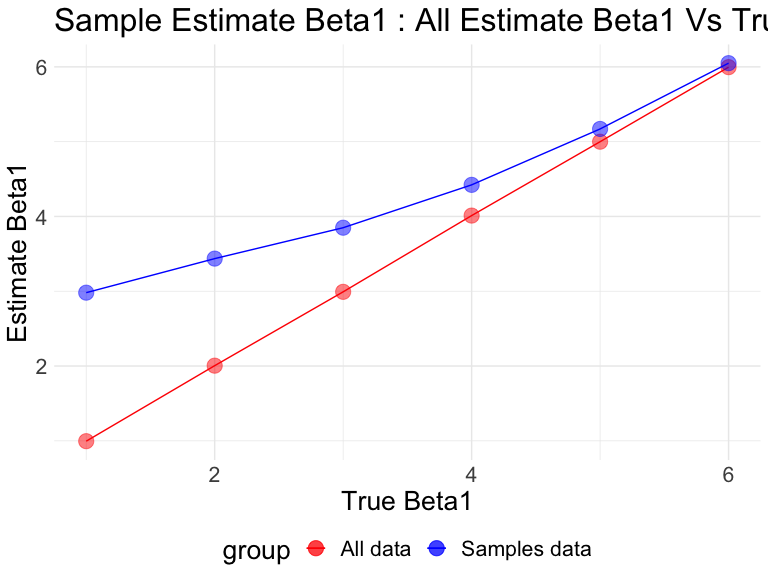
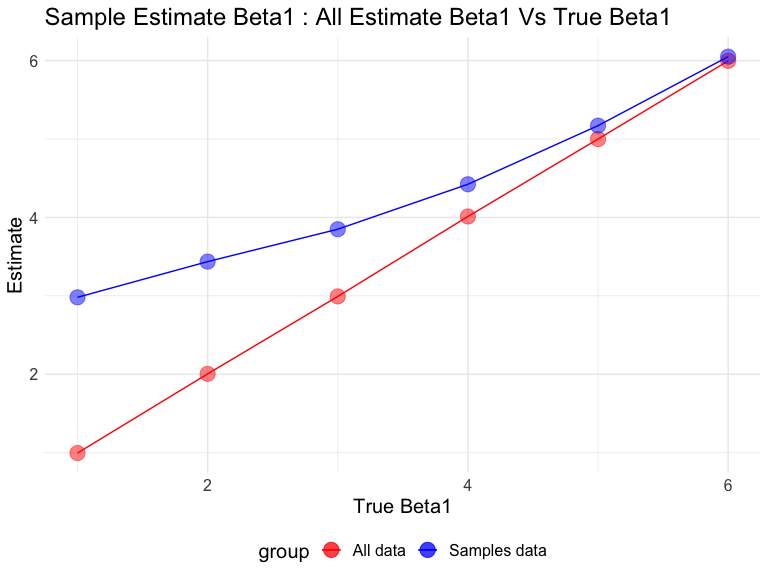
Change the label text size

diff --git a/p8105_hw5_wx2233.md b/p8105_hw5_wx2233.md
@@ -6,10 +6,6 @@ Weijia Xiong
 ## Problem 1
 
 ``` r
-library(tidyverse)
-
-set.seed(10)
-
 iris_with_missing = iris %>% 
   map_df(~replace(.x, sample(1:150, 20), NA)) %>%
   mutate(Species = as.character(Species))
@@ -19,7 +15,7 @@ iris_with_missing = iris %>%
 ## fill function
 my_fill = function(x) {
   if (is.numeric(x)) {
-     x = replace_na(x,round(mean(x,na.rm = TRUE),1))
+     x = replace_na(x,round(mean(x,na.rm = TRUE),1))  #digit = 1 as same as the data
   }
   else if (is.character(x)) {
      x = replace_na(x,"virginica")
@@ -33,18 +29,18 @@ bind_cols()
 ```
 
     ## # A tibble: 150 x 5
-    ##    Sepal.Length Sepal.Width Petal.Length Petal.Width Species
-    ##           <dbl>       <dbl>        <dbl>       <dbl> <chr>  
-    ##  1          5.1         3.5          1.4         0.2 setosa 
-    ##  2          4.9         3            1.4         0.2 setosa 
-    ##  3          4.7         3.2          1.3         0.2 setosa 
-    ##  4          4.6         3.1          1.5         1.2 setosa 
-    ##  5          5           3.6          1.4         0.2 setosa 
-    ##  6          5.4         3.9          1.7         0.4 setosa 
-    ##  7          5.8         3.4          1.4         0.3 setosa 
-    ##  8          5           3.4          1.5         0.2 setosa 
-    ##  9          4.4         2.9          1.4         0.2 setosa 
-    ## 10          4.9         3.1          3.8         0.1 setosa 
+    ##    Sepal.Length Sepal.Width Petal.Length Petal.Width Species  
+    ##           <dbl>       <dbl>        <dbl>       <dbl> <chr>    
+    ##  1          5.1         3.5          1.4         0.2 virginica
+    ##  2          4.9         3            1.4         0.2 setosa   
+    ##  3          4.7         3.2          1.3         0.2 setosa   
+    ##  4          4.6         3.1          1.5         0.2 setosa   
+    ##  5          5           3.6          1.4         0.2 setosa   
+    ##  6          5.4         3.9          1.7         0.4 setosa   
+    ##  7          5.8         3.4          1.4         0.3 setosa   
+    ##  8          5           3.4          1.5         0.2 setosa   
+    ##  9          4.4         2.9          1.4         0.2 setosa   
+    ## 10          4.9         3.1          1.5         0.1 setosa   
     ## # … with 140 more rows
 
 ## Problem 2
@@ -66,7 +62,10 @@ new_data =
   mutate(file_names = file_list) %>% 
   separate(file_names, into = c("group", "id"), sep = "_") %>% 
   mutate(
-     id = str_remove(id,".csv")
+     id = str_remove(id,".csv"),
+     group = recode(group,
+                    "con" = "control",
+                    "exp" = "experiment")
   ) %>% 
   select(id,group,everything())
 
@@ -74,28 +73,28 @@ new_data %>%
   knitr::kable()
 ```
 
-| id | group | week\_1 | week\_2 | week\_3 | week\_4 | week\_5 | week\_6 | week\_7 | week\_8 |
-| :- | :---- | ------: | ------: | ------: | ------: | ------: | ------: | ------: | ------: |
-| 01 | con   |    0.20 |  \-1.31 |    0.66 |    1.96 |    0.23 |    1.09 |    0.05 |    1.94 |
-| 02 | con   |    1.13 |  \-0.88 |    1.07 |    0.17 |  \-0.83 |  \-0.31 |    1.58 |    0.44 |
-| 03 | con   |    1.77 |    3.11 |    2.22 |    3.26 |    3.31 |    0.89 |    1.88 |    1.01 |
-| 04 | con   |    1.04 |    3.66 |    1.22 |    2.33 |    1.47 |    2.70 |    1.87 |    1.66 |
-| 05 | con   |    0.47 |  \-0.58 |  \-0.09 |  \-1.37 |  \-0.32 |  \-2.17 |    0.45 |    0.48 |
-| 06 | con   |    2.37 |    2.50 |    1.59 |  \-0.16 |    2.08 |    3.07 |    0.78 |    2.35 |
-| 07 | con   |    0.03 |    1.21 |    1.13 |    0.64 |    0.49 |  \-0.12 |  \-0.07 |    0.46 |
-| 08 | con   |  \-0.08 |    1.42 |    0.09 |    0.36 |    1.18 |  \-1.16 |    0.33 |  \-0.44 |
-| 09 | con   |    0.08 |    1.24 |    1.44 |    0.41 |    0.95 |    2.75 |    0.30 |    0.03 |
-| 10 | con   |    2.14 |    1.15 |    2.52 |    3.44 |    4.26 |    0.97 |    2.73 |  \-0.53 |
-| 01 | exp   |    3.05 |    3.67 |    4.84 |    5.80 |    6.33 |    5.46 |    6.38 |    5.91 |
-| 02 | exp   |  \-0.84 |    2.63 |    1.64 |    2.58 |    1.24 |    2.32 |    3.11 |    3.78 |
-| 03 | exp   |    2.15 |    2.08 |    1.82 |    2.84 |    3.36 |    3.61 |    3.37 |    3.74 |
-| 04 | exp   |  \-0.62 |    2.54 |    3.78 |    2.73 |    4.49 |    5.82 |    6.00 |    6.49 |
-| 05 | exp   |    0.70 |    3.33 |    5.34 |    5.57 |    6.90 |    6.66 |    6.24 |    6.95 |
-| 06 | exp   |    3.73 |    4.08 |    5.40 |    6.41 |    4.87 |    6.09 |    7.66 |    5.83 |
-| 07 | exp   |    1.18 |    2.35 |    1.23 |    1.17 |    2.02 |    1.61 |    3.13 |    4.88 |
-| 08 | exp   |    1.37 |    1.43 |    1.84 |    3.60 |    3.80 |    4.72 |    4.68 |    5.70 |
-| 09 | exp   |  \-0.40 |    1.08 |    2.66 |    2.70 |    2.80 |    2.64 |    3.51 |    3.27 |
-| 10 | exp   |    1.09 |    2.80 |    2.80 |    4.30 |    2.25 |    6.57 |    6.09 |    4.64 |
+| id | group      | week\_1 | week\_2 | week\_3 | week\_4 | week\_5 | week\_6 | week\_7 | week\_8 |
+| :- | :--------- | ------: | ------: | ------: | ------: | ------: | ------: | ------: | ------: |
+| 01 | control    |    0.20 |  \-1.31 |    0.66 |    1.96 |    0.23 |    1.09 |    0.05 |    1.94 |
+| 02 | control    |    1.13 |  \-0.88 |    1.07 |    0.17 |  \-0.83 |  \-0.31 |    1.58 |    0.44 |
+| 03 | control    |    1.77 |    3.11 |    2.22 |    3.26 |    3.31 |    0.89 |    1.88 |    1.01 |
+| 04 | control    |    1.04 |    3.66 |    1.22 |    2.33 |    1.47 |    2.70 |    1.87 |    1.66 |
+| 05 | control    |    0.47 |  \-0.58 |  \-0.09 |  \-1.37 |  \-0.32 |  \-2.17 |    0.45 |    0.48 |
+| 06 | control    |    2.37 |    2.50 |    1.59 |  \-0.16 |    2.08 |    3.07 |    0.78 |    2.35 |
+| 07 | control    |    0.03 |    1.21 |    1.13 |    0.64 |    0.49 |  \-0.12 |  \-0.07 |    0.46 |
+| 08 | control    |  \-0.08 |    1.42 |    0.09 |    0.36 |    1.18 |  \-1.16 |    0.33 |  \-0.44 |
+| 09 | control    |    0.08 |    1.24 |    1.44 |    0.41 |    0.95 |    2.75 |    0.30 |    0.03 |
+| 10 | control    |    2.14 |    1.15 |    2.52 |    3.44 |    4.26 |    0.97 |    2.73 |  \-0.53 |
+| 01 | experiment |    3.05 |    3.67 |    4.84 |    5.80 |    6.33 |    5.46 |    6.38 |    5.91 |
+| 02 | experiment |  \-0.84 |    2.63 |    1.64 |    2.58 |    1.24 |    2.32 |    3.11 |    3.78 |
+| 03 | experiment |    2.15 |    2.08 |    1.82 |    2.84 |    3.36 |    3.61 |    3.37 |    3.74 |
+| 04 | experiment |  \-0.62 |    2.54 |    3.78 |    2.73 |    4.49 |    5.82 |    6.00 |    6.49 |
+| 05 | experiment |    0.70 |    3.33 |    5.34 |    5.57 |    6.90 |    6.66 |    6.24 |    6.95 |
+| 06 | experiment |    3.73 |    4.08 |    5.40 |    6.41 |    4.87 |    6.09 |    7.66 |    5.83 |
+| 07 | experiment |    1.18 |    2.35 |    1.23 |    1.17 |    2.02 |    1.61 |    3.13 |    4.88 |
+| 08 | experiment |    1.37 |    1.43 |    1.84 |    3.60 |    3.80 |    4.72 |    4.68 |    5.70 |
+| 09 | experiment |  \-0.40 |    1.08 |    2.66 |    2.70 |    2.80 |    2.64 |    3.51 |    3.27 |
+| 10 | experiment |    1.09 |    2.80 |    2.80 |    4.30 |    2.25 |    6.57 |    6.09 |    4.64 |
 
 ### Plot
 
@@ -197,7 +196,9 @@ power_data %>%
 
 <img src="p8105_hw5_wx2233_files/figure-gfm/unnamed-chunk-8-1.png" width="90%" />
 
-Association: the power increases with the increasing of effect size.
+The power of the test: proportion of times the null was rejected. Effect
+size: true beta1 - 0 = true beta1 Association: the power increases with
+the increasing of effect size.
 
 ### Plot of Estimate and True beta1
 
@@ -236,7 +237,7 @@ beta_data %>%
   labs(
     title = "Sample Estimate Beta1 : All Estimate Beta1 Vs True Beta1",
     x = "True Beta1",
-    y = "Estimate Beta1"
+    y = "Estimate"
   ) 
 ```
 
